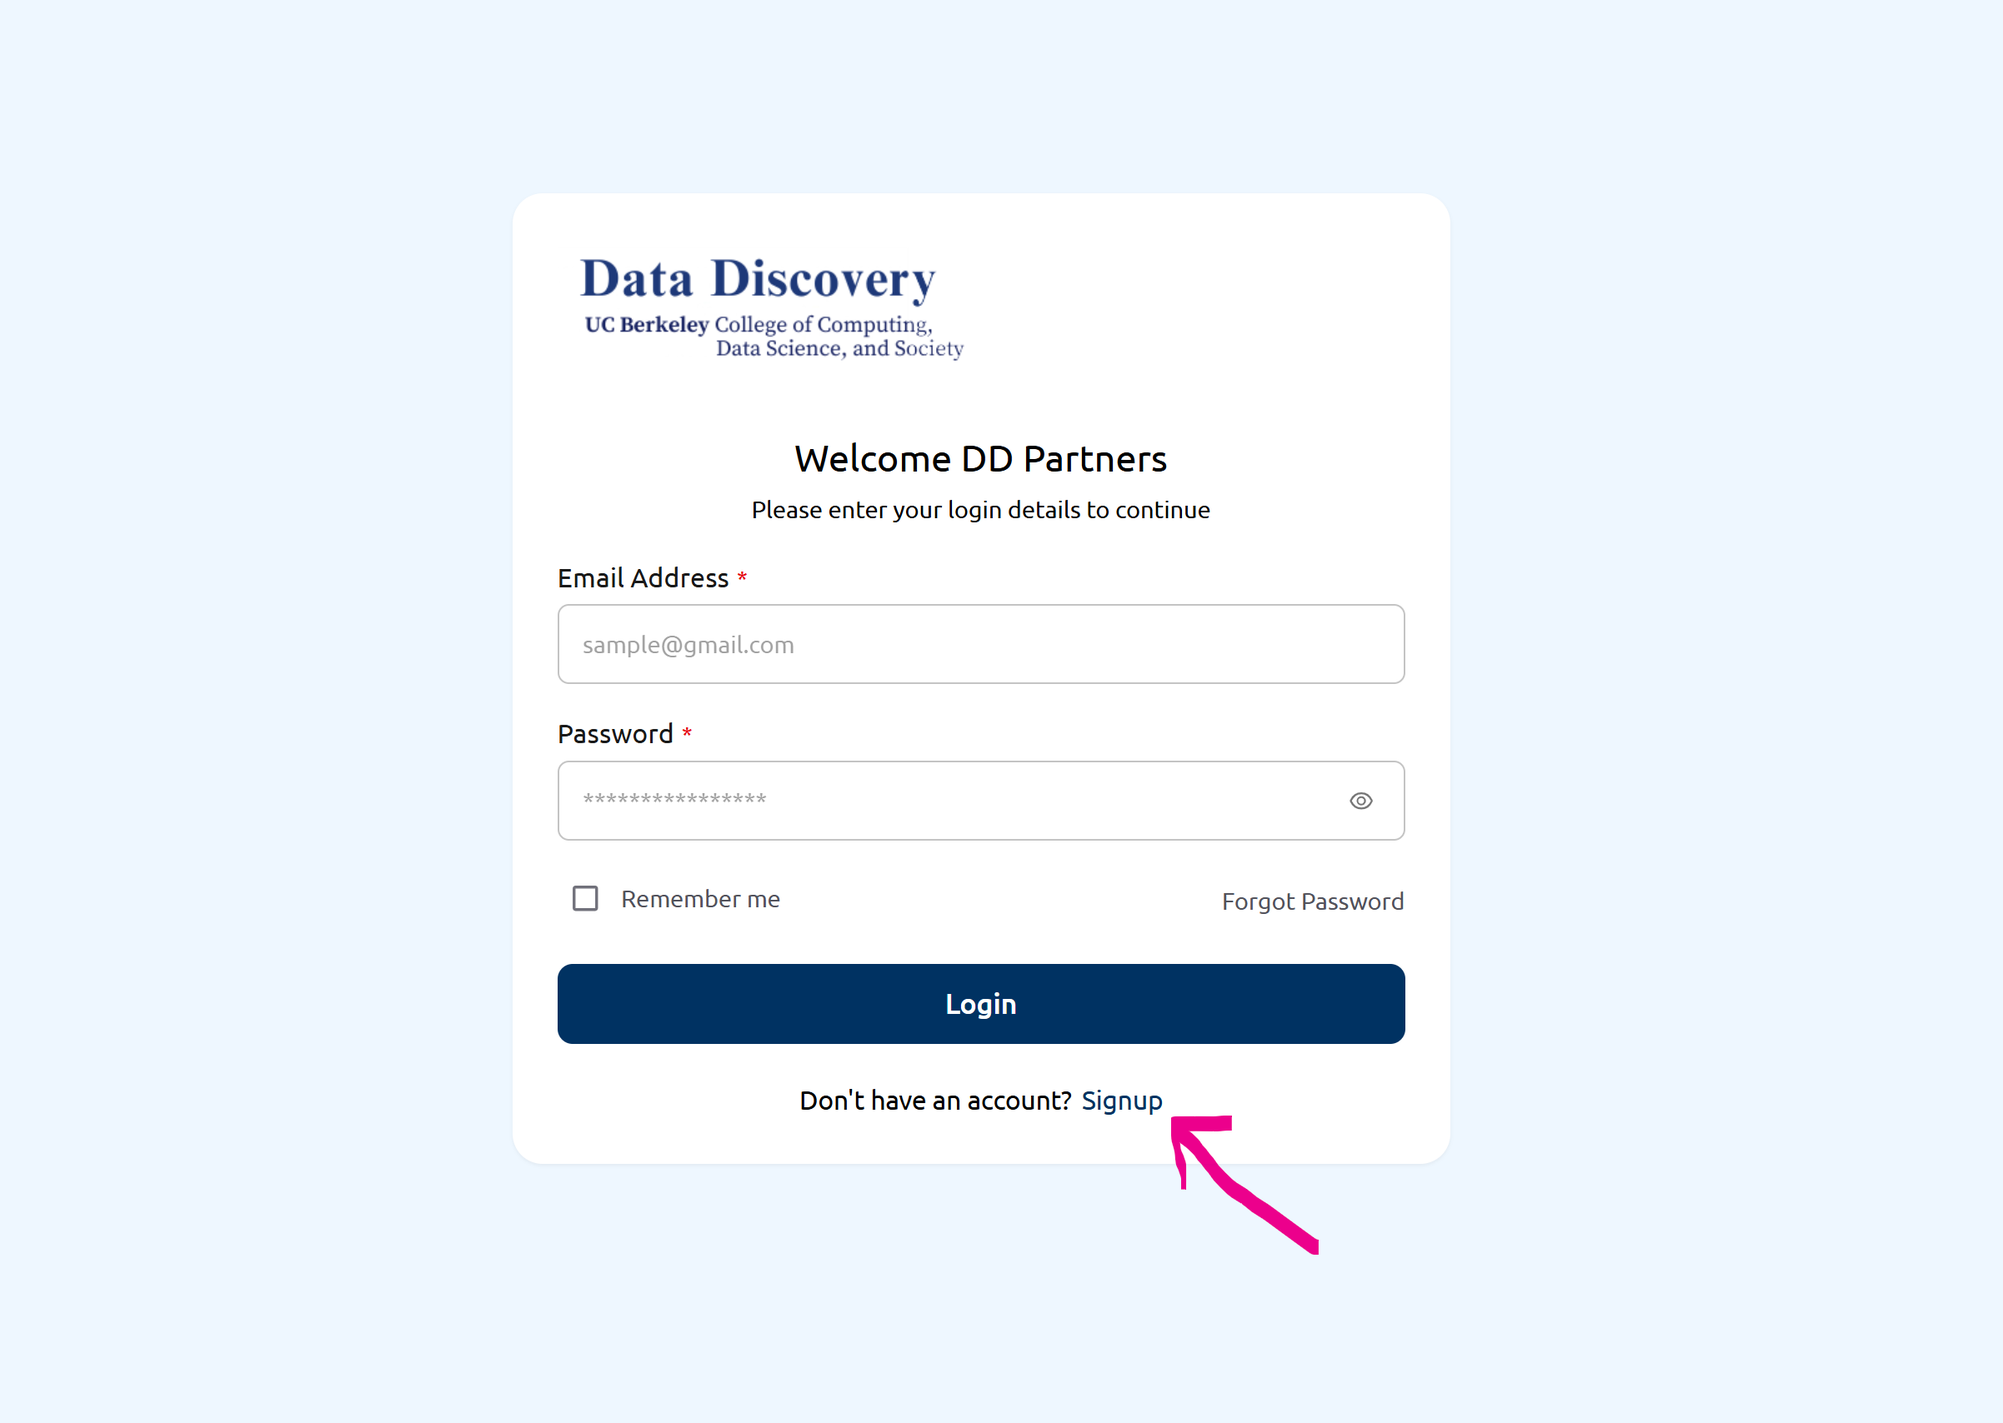
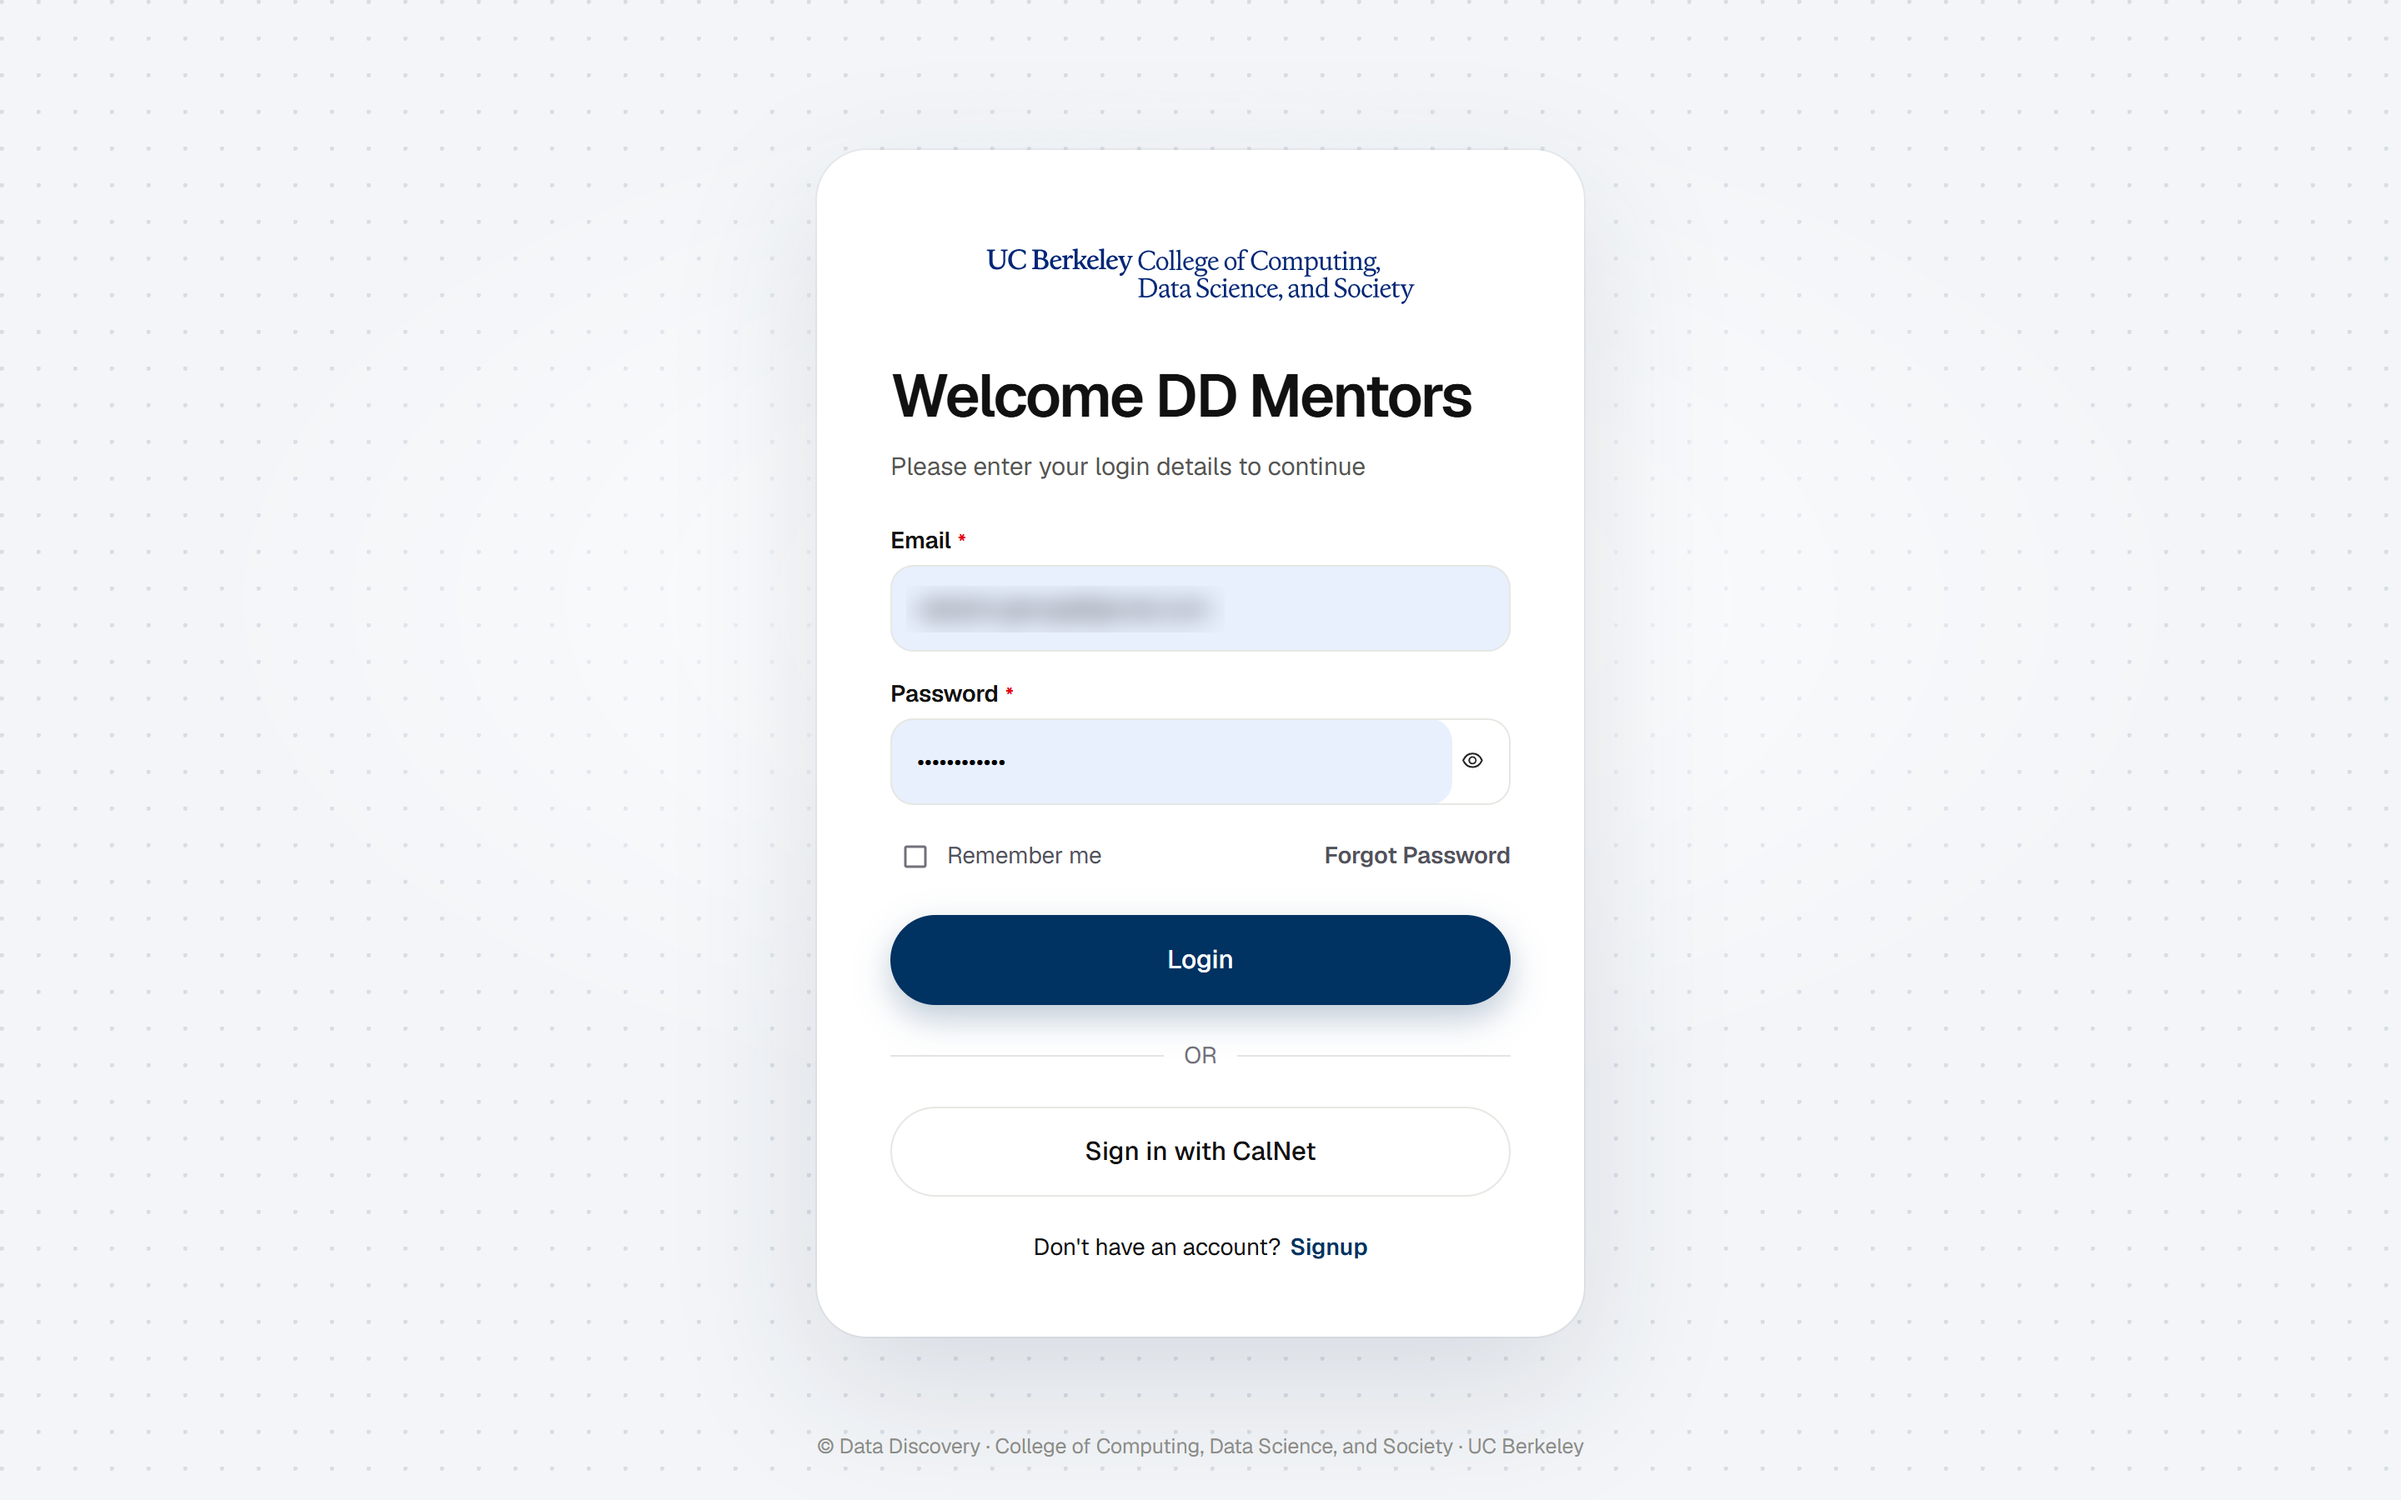
Update DD Match mentor guide for the new platform UI
Rename partners to mentors throughout the DD Match guide, document the
new login, signup and email verification screens (including CalNet
sign-in for UC Berkeley affiliates), and rewrite onboarding around the
five-tab Organization profile form and the redesigned dashboard.
Refresh the account screenshots, with personal details blurred.

diff --git a/ddmatch/create-partner.md b/ddmatch/create-partner.md
@@ -1,25 +1,27 @@
 ---
-title: "Creating a Partner Account"
+title: "Creating a Mentor Account"
 ---
 
-This guide walks new partners through the account signup process on the DDMatch platform.
+This guide walks new mentors through the account signup process on the DDMatch platform.
 
 
 ## Step 1: Signup
 
-Navigate to the homepage and click the **"Partner Login"** tab in the top menu.
+Navigate to the homepage and click **"Mentor login"** in the top-right menu.
 
-![Step 1: Partner Signup](../assets/step1.png)
+![Step 1: Mentor Signup](../assets/step1.png)
 
-> This will redirect you to the partner login portal where you can either create a new account or log in with your existing credentials.
+> This will redirect you to the mentor login portal where you can either create a new account or log in with your existing credentials.
 
 ## Step 2: Click "Signup"
 
-On the login screen, locate the **“Don’t have an account? Signup”** link below the login button and click it.
+On the **Welcome DD Mentors** login screen, locate the **“Don’t have an account? Signup”** link at the bottom of the form and click it.
 
 ![Step 2: Click Signup](../assets/step2.png)
 
-> This will redirect you to the registration form where you can create your new Partner account.
+> This will redirect you to the **Become a Mentor** registration form where you can create your new account.
+
+> **UC Berkeley affiliates:** if you have a CalNet ID, you can click **"Sign in with CalNet"** on the login screen instead of creating an account with an email and password. CalNet sign-in is only for UC Berkeley faculty, staff, and students; all other mentors should sign up with their email address.
 
 ## Step 3: Complete the Signup Form
 
@@ -27,79 +29,93 @@ Enter your email address and choose a secure password that includes at least one
 
 ![Step 3: Complete the Signup Form](../assets/step3.png)
 
-> Once submitted, you will be prompted to verify your email before gaining access to your partner dashboard.
+> Once submitted, you will be prompted to verify your email before gaining access to your mentor dashboard.
 
 ## Step 4: Verify Your Email
 
-Check your inbox for a one-time password (OTP) sent to your registered email address. If you don’t see it, be sure to check your spam or junk folder. Enter the 6-digit code in the boxes provided, then click **"Confirm"**.
+On the **Check your email** screen, look in your inbox for the six-digit code sent to your registered email address. The code expires in 10 minutes. If you don’t see it, be sure to check your spam or junk folder. Enter the code in the boxes provided, then click **"Activate account"**.
 
 ![Step 4: Email Verification](../assets/step4.png)
 
-> If you didn’t receive the OTP, click **“Request new OTP”** to resend the verification code.
+> If you didn’t receive the code, or it expired, click **“Request a new code”** to resend it.
 
 ## Step 5: Login to Your Account
 
-Once your account has been verified, return to the **Partner Login** page. Enter your registered email and password, then click **"Login"** to access your dashboard.
+Once your account has been verified, return to the **Mentor login** page. Enter your registered email and password, then click **"Login"** to access your dashboard. UC Berkeley affiliates who use CalNet can click **"Sign in with CalNet"** instead.
 
 ![Step 5: Login to Your Account](../assets/step5.png)
 
-> You now have full access to your Partner Dashboard, where you can manage your profile, submit project proposals, and track student applications.
+> You now have full access to your Mentor Dashboard, where you can manage your profile, submit project proposals, and track student applications.
 
 
-## Step 6: Complete Partner Information
+## Step 6: Organization Profile: Contact
 
-Upon first login, you’ll be asked to provide essential information. Enter your **full name**, **email address**, and your **role in the organization**. Click **Next** to continue through the remaining onboarding steps.
+Upon first login, you'll be asked to complete your **Organization profile**. The form has five tabs: **Contact**, **Organization**, **Resources**, **Commitment**, and **Logo**. A progress bar at the bottom shows where you are, and you can click **Previous** to go back at any time.
 
-![Step 6: Complete Partner Information](../assets/step6.png)
+On the **Contact** tab, enter the **name (first and last)** of the administrative contact person for the project, the **email** where notifications should be sent, and **your title**. Click **Next** to continue.
 
-> This information helps the platform connect you with students and clarify your role in the research process.
+![Step 6: Organization Profile, Contact](../assets/step6.png)
+
+> This is the person students and Data Discovery staff will contact about your project.
 
 
-## Step 7: Complete Partner Information (Part 2)
+## Step 7: Organization Profile: Organization
 
-Continue filling in your **organization details** such as name, website, a short introduction, and select the appropriate sector for your organization (e.g., Private Industry, Non-Profit).
+On the **Organization** tab, fill in your **organization details**, such as its name, website, a short introduction, and the sector your organization belongs to (e.g., Private Industry, Non-Profit). Click **Next** to continue.
 
-![Step 7: Complete Partner Information (Part 2)](../assets/step7.png)
+![Step 7: Organization Profile, Organization](../assets/step7.png)
 
 > These details will be displayed to students and help match your organization with the right candidates.
 
 
-## Step 8: Request Computing Resources
+## Step 8: Organization Profile: Resources
 
-You will be asked whether your project requires access to our computing infrastructure, which may include the CDSS DataHub (powered by NAIRR) or UC Berkeley’s Savio cluster.
+On the **Resources** tab, you'll be asked whether your project would benefit from access to computing resources. These may include the CDSS DataHub (NAIRR infrastructure), Savio (UC Berkeley's high-performance computing cluster), and additional resources such as the OpenAI API and Hugging Face models.
 
-![Step 8: Request Cloud Credits](../assets/step8.png)
+![Step 8: Organization Profile, Resources](../assets/step8.png)
 
 > Select the most accurate response: **Yes**, **No**, or **Maybe**, then click **Next** to proceed.
 
 
-## Step 9: Commit to Program Requirements
+## Step 9: Organization Profile: Commitment
 
-You must confirm that you can meet the program's expectations, including weekly meetings, evaluations, and support for student learning. Carefully read all the listed commitments before selecting your response.
+On the **Commitment** tab, read the **Program requirements** carefully. Mentors are expected to:
 
-![Step 9: Commit to Program Requirements](../assets/step9.png)
+1. Meet with students on a weekly basis.
+2. Be available for student questions outside of scheduled meetings.
+3. Support students' educational outcomes and program requirements, including their participation in the Data Discovery course and an end-of-term poster session.
+4. Communicate with Data Discovery staff as issues arise.
+5. Provide mid-term and end-of-term evaluations of each student's engagement and progress, shared with Data Discovery and with each student privately.
+6. Ensure a safe, professional, inclusive work environment, in line with UC Berkeley campus policy on Environment, Health & Safety.
+7. Attend an orientation meeting.
+8. Meet the deadline for application review and interviews, and form your student team by the first week of the semester.
 
-> Select **"Yes, I agree to commit to the requirements."** to proceed.
+![Step 9: Organization Profile, Commitment](../assets/step9.png)
+
+> Select **"Yes, I agree to commit to the requirements."** and click **Next** to proceed.
 
 
-## Step 10: Upload Your Logo & Submit
+## Step 10: Organization Profile: Logo & Submit
 
-To acknowledge your institution's contribution, you can optionally upload your logo (under 1MB and exactly 700×200 pixels). Choose **"Yes, please include our logo"** and upload the image file. Then click **Submit** to complete the process.
+On the **Logo** tab, choose whether you'd like your institution's logo displayed, with credit to your organization, on the [CDSS Data Discovery website](https://cdss.berkeley.edu/discovery). If you select **"Yes, please include our logo"**, attach your logo file. It must be **under 1 MB and exactly 700 × 200 pixels**. Otherwise, select **"No, thank you"**. Then click **Submit** to complete your profile.
 
-![Step 10: Upload Logo & Submit](../assets/step10.png)
+![Step 10: Organization Profile, Logo & Submit](../assets/step10.png)
 
-> Your profile is now ready! You'll receive a confirmation email and gain access to additional platform features.
+> Your profile is now ready, and you can start using the platform.
 
 
 ## Step 11: Explore the Dashboard
 
-Once onboarded, you'll land in your **Partner Dashboard**. From here you can view:
+Once onboarded, you'll land on your **Dashboard**, which gives an overview of the current term. From here you can see:
 
-- **Total projects**
-- **Approved projects**
-- **Applications received**
+- **Total projects:** projects you've submitted this term
+- **Approved projects:** projects visible to students
+- **Not yet approved:** projects pending, in review, or rejected
+- **Applications:** student applications across your projects
 
-You can also manage your profile, review applications, and extend offers using the navigation on the left.
+The dashboard also shows the **Project review** status of your submissions, your **Recent applications** and **Recent offers**, suggested **Next steps**, and the **Term status** (whether project submissions and student applications are open). Click **Create project** in the top right to submit a new project.
+
+Use the menu on the left to move between **Dashboard**, **Projects**, **Applications**, **Extended Offers**, **Profile**, **Settings**, and **Team**.
 
 ![Step 11: Explore the Dashboard](../assets/step11dashboard.png)
 

diff --git a/get-involved/partner.md b/get-involved/partner.md
@@ -1,5 +1,5 @@
 ---
-title: "For Project Partners"
+title: "For Project Mentors"
 ---
 
 ## Program Overview
@@ -33,7 +33,7 @@ Exact program deadlines follow UC Berkeley’s academic calendar and will vary b
   Mentors can begin reviewing applications and contacting students to schedule interviews.
 
 - **Mentors can begin extending offers**: *Jan. 19, 2026*  
-  Partners can begin extending offers in DDMatch and forming their team of one to five students.
+  Mentors can begin extending offers in DDMatch and forming their team of one to five students.
 
 - **Deadline for team selection**: *Jan. 23, 2026*  
   Please extend all offers by this date for a prompt start to the program.

diff --git a/ddmatch.md b/ddmatch.md
@@ -2,4 +2,4 @@
 title: "DD Match Platform Guide"
 ---
 
-Welcome to the Data Discovery Match Platform. This onboard guidebook will walk you through how to use the platform whether you are a Project Partner or Student Researcher. You’ll learn how to sign up, submit projects, apply, and manage submissions.
+Welcome to the Data Discovery Match Platform. This onboard guidebook will walk you through how to use the platform whether you are a Project Mentor or Student Researcher. You’ll learn how to sign up, submit projects, apply, and manage submissions.

diff --git a/ddmatch/create-project.md b/ddmatch/create-project.md
@@ -1,8 +1,8 @@
 ---
-title: "Creating a Partner's Project"
+title: "Creating a Mentor's Project"
 ---
 
-This guide walks partners through the steps required to successfully submit a project on the DD Match platform.
+This guide walks mentors through the steps required to successfully submit a project on the DD Match platform.
 
 ---
 
